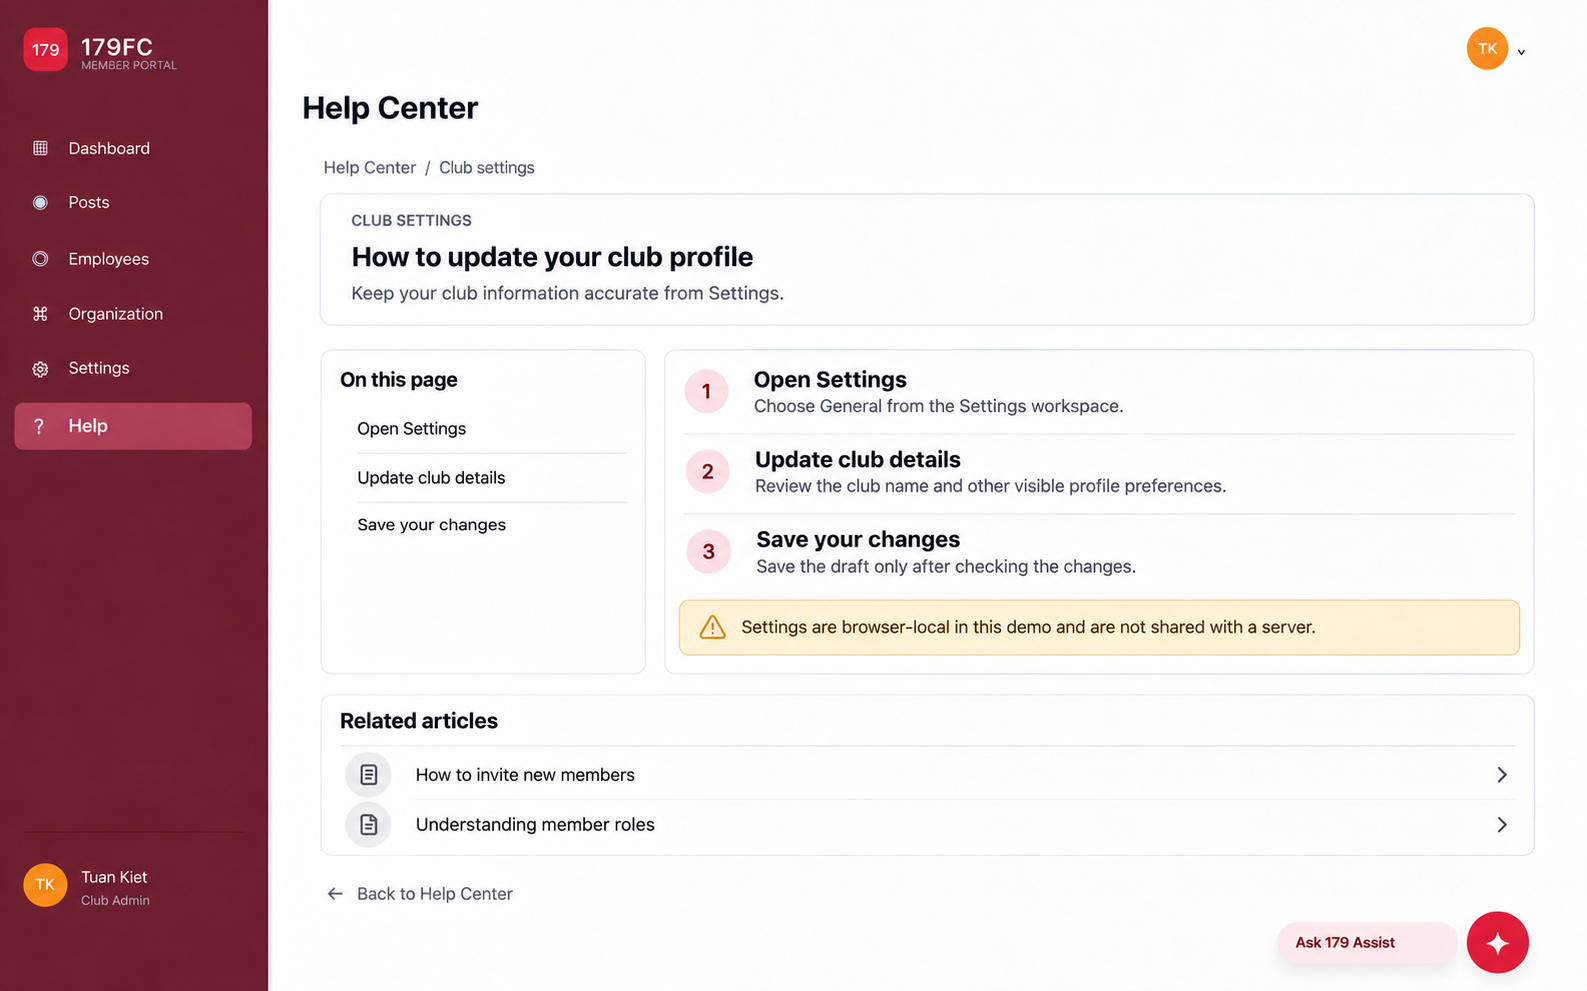
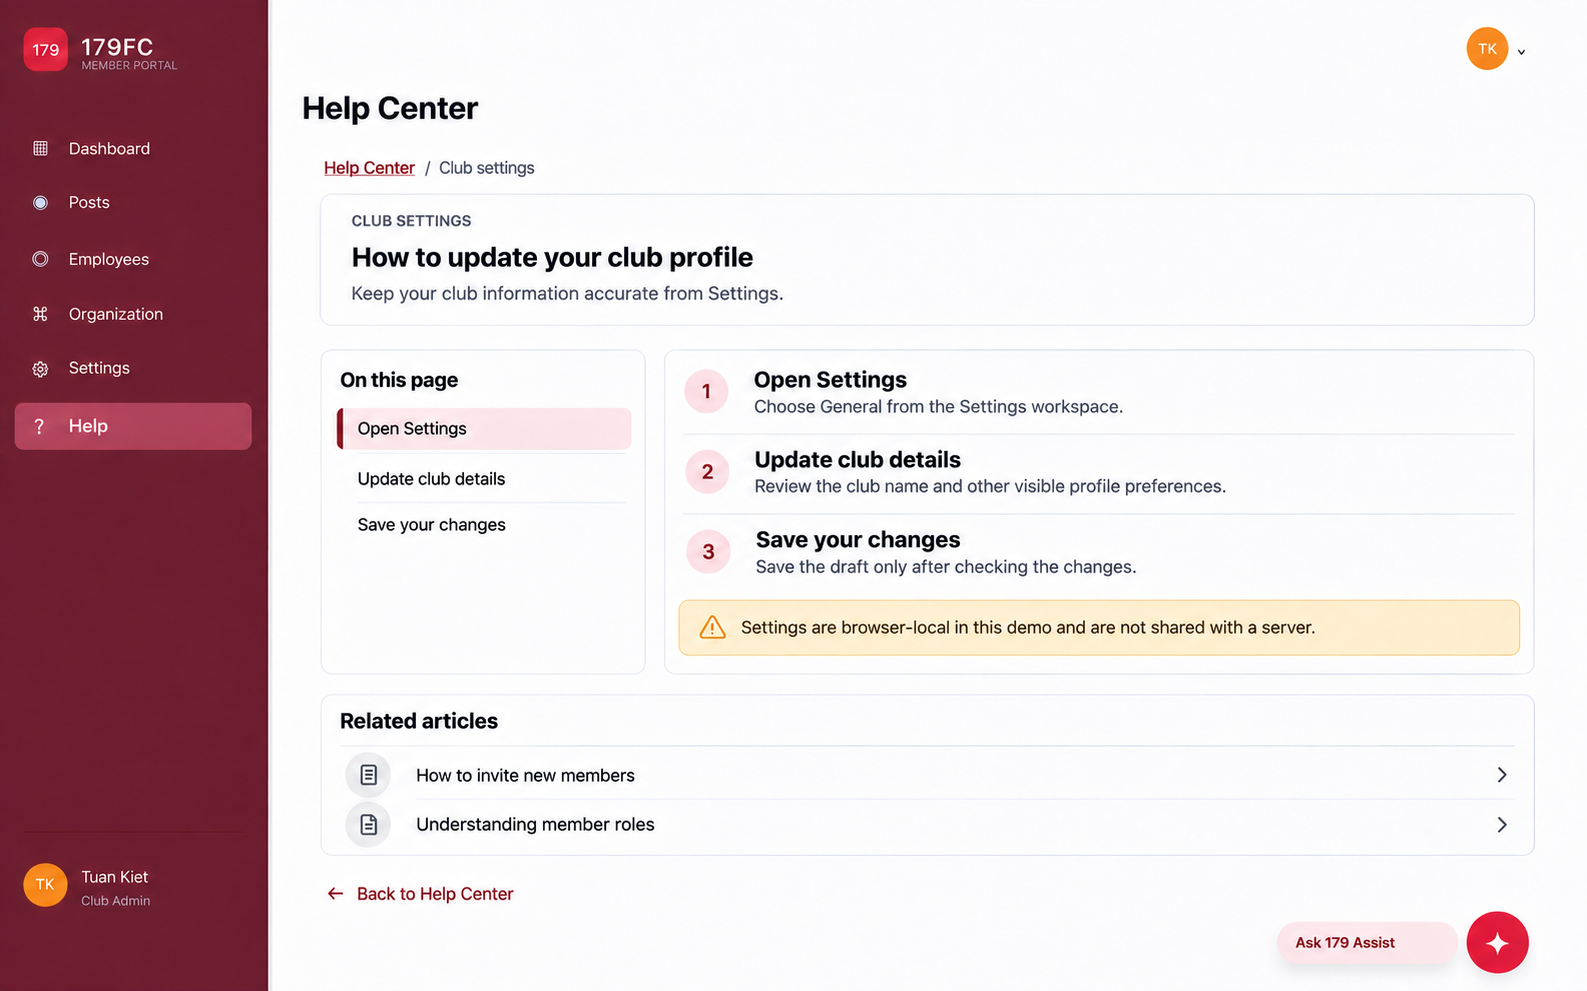
design: unify Help article active states

diff --git a/designs/Help/Help.md b/designs/Help/Help.md
@@ -14,8 +14,9 @@
 ## Shared nested-route contract
 
 - `Help.png`, all article references, and `Help_Support.png` reuse one identical authenticated shell: the existing sidebar width, 179FC logo, navigation/icon set, active Help item, TopBar alignment, TK avatar trigger, page gutter, and 179 Assist launcher. Nested routes change only the content region.
-- The nested article routes use one layout template: breadcrumb; simple white article header card; narrow **On this page** card; numbered step card; boundary callout; full-width two-row **Related articles** card; and **Back to Help Center**. Category, article title, steps, callout, and related routes are the only content variants.
+- The nested article routes use one layout template: burgundy **Help Center** breadcrumb; simple white article header card with an ordinary uppercase-gray category label (never a pill); narrow **On this page** card; numbered step card with its boundary callout inside it after the last divider; full-width two-row **Related articles** card; and burgundy **Back to Help Center**. Category text, article title, steps, callout copy, and related routes are the only content variants.
 - Heading ownership is explicit. On `/help` and `/help/articles/*`, the shared TopBar **Help Center** is the sole page `h1`; an article title is a content `h2`. On `/help/support`, the shared TopBar **Contact support** is the sole `h1`; content starts with the `h2` **Tell us how we can help**, never a second `Contact support` heading.
+- Every desktop article reference shows the first TOC target as the current location: a pale-pink row background and burgundy leading indicator. This common active state is used for `Open Employees`, `Open Settings`, and `Review the member role`.
 - Nested-route scale: breadcrumb 13 px; category/TOC label 12–13 px; content `h2` 22–24 px; TOC and step headings 16–17 px; body, related rows, form labels, and callouts 14 px. Related/article content must not exceed the scale of the Help overview.
 - A TOC item’s text exactly matches its target step heading. Selecting it moves to the matching anchor (for example `#open-employees`); the current target has `aria-current="location"` plus the burgundy active indicator.
 

diff --git a/designs/Help/Help_Member_Roles.md b/designs/Help/Help_Member_Roles.md
@@ -11,8 +11,8 @@ Read with `Help_Member_Roles.png`, `../Organization/Organization.md`, and the Em
 
 ## Article structure
 
-- Use the common article template from `Help.md`: breadcrumb; simple white header; narrow **On this page** card; numbered step card; callout; full-width two-row related card; Back.
-- The TOC anchors exactly match the steps: **Review the member role** (`#review-member-role`), **Check the team context** (`#check-team-context`), and **Request a role change** (`#request-role-change`). They reference the member profile and Organization workspace but do not invent an editable role control. The active target has `aria-current="location"` and the common burgundy leading indicator.
+- Use the common article template from `Help.md`: burgundy Help Center breadcrumb; simple white header with an ordinary uppercase-gray category label; narrow **On this page** card; numbered step card with the callout inside after the last divider; full-width two-row related card; burgundy Back.
+- The TOC anchors exactly match the steps: **Review the member role** (`#review-member-role`), **Check the team context** (`#check-team-context`), and **Request a role change** (`#request-role-change`). They reference the member profile and Organization workspace but do not invent an editable role control. The shown first target has `aria-current="location"`, a pale-pink row background, and the common burgundy leading indicator.
 - The boundary callout reads: **Permissions are not connected to a server-authorized role service in this demo.**
 - Related articles link to invite members and club profile. The article title, step headings, body, and callout preserve the reduced Help type scale and clear reading rhythm.
 

diff --git a/designs/Help/Help_Club_Profile.md b/designs/Help/Help_Club_Profile.md
@@ -11,8 +11,8 @@ Read with `Help_Club_Profile.png` and `../Settings/Settings_General.md`.
 
 ## Article structure
 
-- Use the common article template from `Help.md`: breadcrumb; simple white header; narrow **On this page** card; numbered step card; callout; full-width two-row related card; Back.
-- The TOC anchors exactly match the steps: **Open Settings** (`#open-settings`), **Update club details** (`#update-club-details`), and **Save your changes** (`#save-your-changes`). Use direct, scannable copy that corresponds to the Settings General UI rather than duplicating its form. The active target has `aria-current="location"` and the common burgundy leading indicator.
+- Use the common article template from `Help.md`: burgundy Help Center breadcrumb; simple white header with an ordinary uppercase-gray category label; narrow **On this page** card; numbered step card with the callout inside after the last divider; full-width two-row related card; burgundy Back.
+- The TOC anchors exactly match the steps: **Open Settings** (`#open-settings`), **Update club details** (`#update-club-details`), and **Save your changes** (`#save-your-changes`). Use direct, scannable copy that corresponds to the Settings General UI rather than duplicating its form. The shown first target has `aria-current="location"`, a pale-pink row background, and the common burgundy leading indicator.
 - Display this honest boundary callout: **Settings are browser-local in this demo and are not shared with a server.**
 - Related links lead to invite members and member roles; their entire row/card is interactive and exposes a visible focus treatment.
 

diff --git a/designs/Help/Help_Invite_Members.md b/designs/Help/Help_Invite_Members.md
@@ -11,8 +11,8 @@ Read with `Help_Invite_Members.png`.
 
 ## Article structure
 
-- Use the common article template from `Help.md`: breadcrumb; simple white header; narrow **On this page** card; numbered step card; callout; full-width two-row related card; Back.
-- The TOC anchors exactly match the steps: **Open Employees** (`#open-employees`), **Prepare member details** (`#prepare-member-details`), and **Review the invitation** (`#review-the-invitation`). The active target has `aria-current="location"` and a burgundy leading indicator.
+- Use the common article template from `Help.md`: burgundy Help Center breadcrumb; simple white header with an ordinary uppercase-gray category label; narrow **On this page** card; numbered step card with the callout inside after the last divider; full-width two-row related card; burgundy Back.
+- The TOC anchors exactly match the steps: **Open Employees** (`#open-employees`), **Prepare member details** (`#prepare-member-details`), and **Review the invitation** (`#review-the-invitation`). The shown first target has `aria-current="location"`, a pale-pink row background, and a burgundy leading indicator.
 - Related articles link to club profile and member roles in complete 44 px rows with a visible destination affordance.
 - The boundary callout reads: **Invitation delivery is not connected in this demo.** It is warning/information, not an error or a promise of an email.
 

diff --git a/designs/README.md b/designs/README.md
@@ -154,6 +154,8 @@ Read every PNG/Markdown pair directly, including the [responsive](Settings/Setti
 
 `HelpPage` includes a help-article search input, three quick-guide cards (create a post, find a member, manage an account), a popular-article list, and a `Contact support` call to action. Cards and articles navigate to their destination or article detail; search states need loading, no-result, and error presentations.
 
+The Help article PNG/Markdown pairs share one nested-route reference: ordinary uppercase-gray category text, **On this page** with a pale-pink current row and burgundy leading indicator, a boundary callout inside the step card, and burgundy Help Center breadcrumb/Back links. Read `Help/Help.md` with each article pair before implementation.
+
 The circular assistant trigger is present in the authenticated shell. It expands to the `AssistantPanel` reference: a header with availability message and close button, a conversation area, suggested question, and labelled text input with submit button. Opening the panel must move focus into it; closing returns focus to the launcher. Messages need their own loading/error state and must be announced accessibly.
 
 ## Minimal design system
